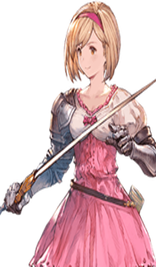
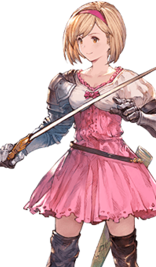
Fix: Recrop all transparent portraits (Gran, Djeeta, Beatrix, Vaseraga, Ghandagoza, Fraux, Fediel) using mathematically proportional crop boxes to prevent horizontal ratio distortion

diff --git a/index.html b/index.html
@@ -5,9 +5,9 @@
   <meta name="viewport" content="width=device-width, initial-scale=1.0">
   <title>Granblue Fantasy: Relink Complete Wiki Guide</title>
   <meta name="description" content="그랑블루 판타지 리링크 오리지널 스토리 엔딩 직후부터 확장팩 엔드리스 라그나로크까지 포함하는 전 캐릭터, 무기, 진 세팅 통합 공략 웹 도감입니다.">
-  <link rel="stylesheet" href="index.css?v=5">
+  <link rel="stylesheet" href="index.css?v=6">
   <script src="data.js" defer></script>
-  <script src="app.js?v=5" defer></script>
+  <script src="app.js?v=6" defer></script>
 </head>
 <body>
 
